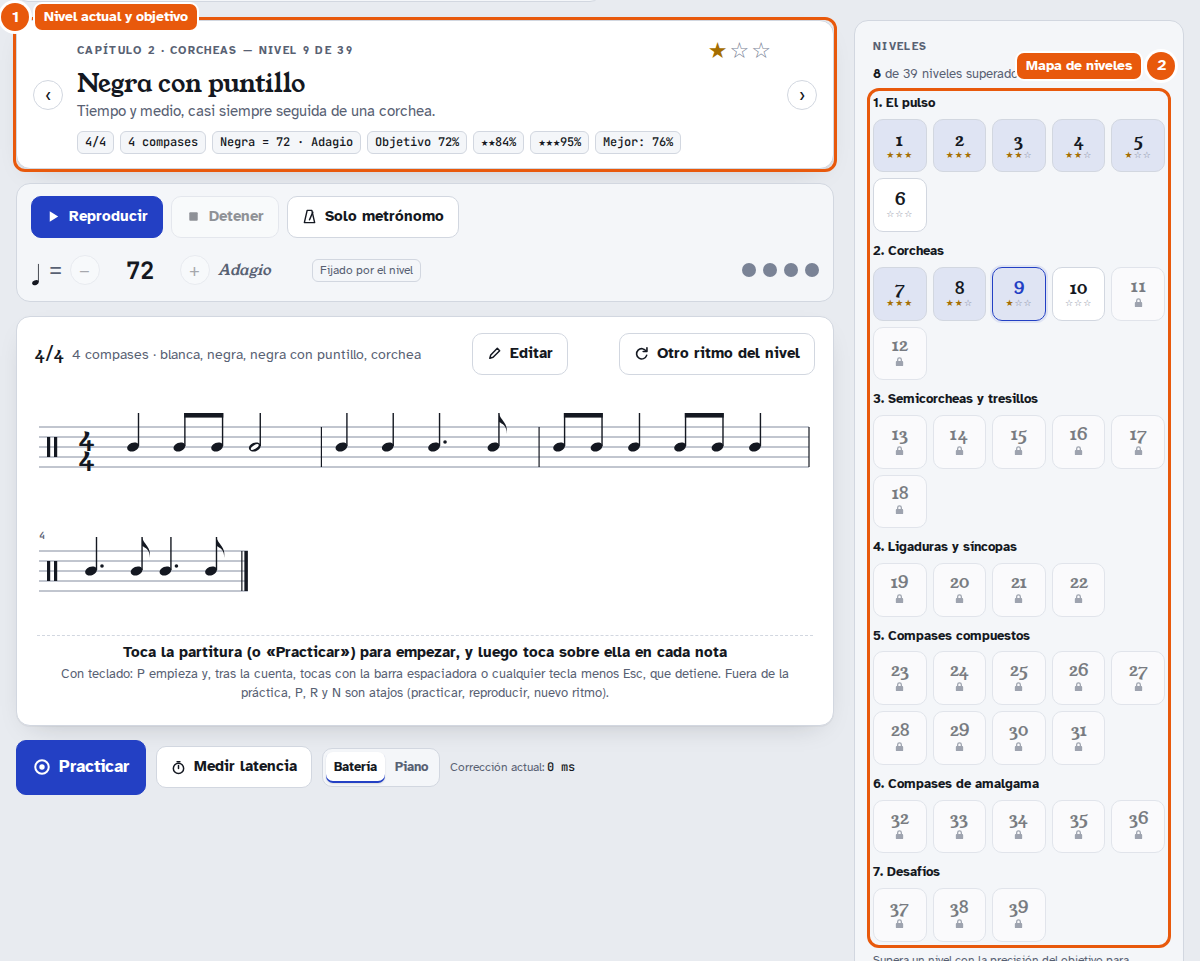
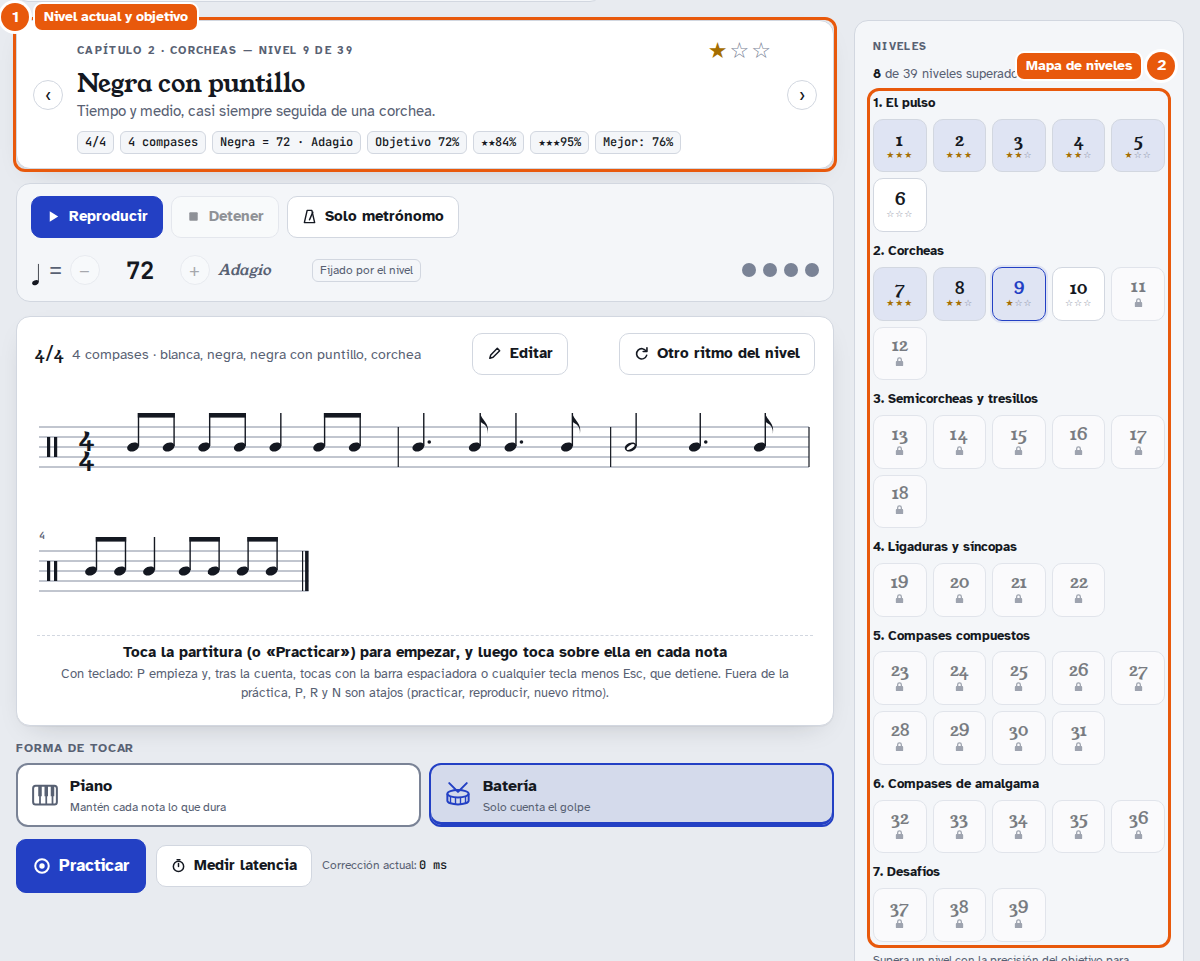
Forma de tocar destacada, modo piano por defecto y sonido de redoblante en batería
- Selector «Forma de tocar» encima de Practicar: dos botones grandes con icono
  y explicación (Piano primero). La bienvenida lo explica en un paso propio.
- Modo piano por defecto; los ajustes guardados pasan a piano una vez (sv 4).
- El toque en modo batería y el «Golpe de redoblante» del ritmo suenan como un
  redoblante (bordonera de ruido filtrado más parche).
- Pruebas: tests/modo.test.js; las suites arrancan en batería salvo que digan
  otra cosa.
- README, CLAUDE.md y capturas al día.

Claude-Session: https://claude.ai/code/session_01KR51CwVVXhtFmUshsMceNd

diff --git a/tests/modo.test.js b/tests/modo.test.js
@@ -1,0 +1,50 @@
+// Forma de tocar: modo piano por defecto (también para ajustes guardados antiguos, sv 4), selector destacado,
+// bienvenida que lo explica y sonido de redoblante en modo batería
+const { suite, MOB } = require('./lib');
+
+suite('Modo piano y batería', async ({ b, URL, ok, page, open, until }) => {
+  // primera vez, sin ajustes guardados
+  const p = await page(b, { welcome: true }); await open(p, URL);
+  ok(await p.evaluate(() => __t.set.hold === true), 'sin ajustes guardados, el modo piano viene activado');
+  const pressed = () => p.evaluate(() => [...document.querySelectorAll('#modeSeg button')].map(x => x.dataset.hold + ':' + x.getAttribute('aria-pressed')).join(' '));
+  ok(await pressed() === '1:true 0:false', 'el selector marca Piano ' + await pressed());
+  const wel = await p.textContent('#welcome');
+  ok(!(await p.isHidden('#welcome')) && /Piano/.test(wel) && /Batería/.test(wel), 'la bienvenida explica Piano y Batería');
+  ok(await p.evaluate(() => document.querySelector('.mode-lbl').textContent.trim()) === 'Forma de tocar' && await p.evaluate(() => document.querySelector('#modeSeg').getAttribute('aria-labelledby')) === 'modeLbl', 'el selector tiene título «Forma de tocar» y nombre accesible');
+  const mp = await p.evaluate(() => { const a = document.querySelector('#modeSeg').getBoundingClientRect(), c = document.querySelector('#bPractice').getBoundingClientRect(); return a.bottom <= c.top + 1; });
+  ok(mp, 'el selector va encima de «Practicar»');
+  await p.click('#modeSeg button[data-hold="0"]');
+  ok(await p.evaluate(() => __t.set.hold === false && !document.querySelector('#holdSw').checked && JSON.parse(localStorage.getItem('solfeo-ritmico-v1')).hold === false), 'elegir Batería lo guarda y sincroniza el interruptor del panel');
+  ok(await pressed() === '1:false 0:true', 'el selector marca Batería');
+
+  // migración: ajustes antiguos (sv 3) en batería pasan a piano una vez; con sv 4 se respeta la elección
+  const q = await page(b);
+  await q.addInitScript(() => { if (!sessionStorage.x) { sessionStorage.x = 1; localStorage.setItem('solfeo-ritmico-v1', JSON.stringify({ seen: true, sv: 3, hold: false })); } });
+  await open(q, URL);
+  ok(await q.evaluate(() => __t.set.hold === true && __t.set.sv === 4), 'ajustes guardados con sv 3: pasan a modo piano (sv 4)');
+  await q.click('#modeSeg button[data-hold="0"]');
+  await q.reload(); await q.waitForFunction(() => window.__t && document.readyState === 'complete');
+  ok(await q.evaluate(() => __t.set.hold === false), 'con sv 4 se respeta haber elegido Batería al recargar');
+
+  // sonido de redoblante: ruido (bordonera) más tono (parche), en el toque de batería y en el «Golpe de redoblante»
+  const snd = await q.evaluate(() => {
+    ensureAudio(); const c = __t.ctx, n = { buf: 0, osc: 0 };
+    const cb = c.createBufferSource.bind(c), co = c.createOscillator.bind(c);
+    c.createBufferSource = () => { n.buf++; return cb(); }; c.createOscillator = () => { n.osc++; return co(); };
+    __t.set.hold = false; __t.set.tapSound = true; __t.set.tapVol = 0.6;
+    tapSoundOn('test'); const tap = { ...n }; n.buf = 0; n.osc = 0;
+    __t.set.timbre = 'golpe'; noteSound(master, c.currentTime + 0.05, 0.5, 0.5); const note = { ...n };
+    c.createBufferSource = cb; c.createOscillator = co;
+    return { tap, note, opt: document.querySelector('#timbre option[value="golpe"]').textContent };
+  });
+  ok(snd.tap.buf === 1 && snd.tap.osc >= 2, 'el toque en modo batería suena a redoblante (ruido + parche) ' + JSON.stringify(snd.tap));
+  ok(snd.note.buf === 1 && snd.note.osc >= 2, '«Golpe de redoblante» en el ritmo usa el mismo sonido ' + JSON.stringify(snd.note));
+  ok(snd.opt === 'Golpe de redoblante', 'la opción se llama «Golpe de redoblante»');
+
+  // móvil: los dos botones caben uno al lado del otro y miden al menos 44 px
+  const m = await page(b, MOB); await open(m, URL);
+  const r = await m.evaluate(() => [...document.querySelectorAll('#modeSeg button')].map(x => { const k = x.getBoundingClientRect(); return { t: Math.round(k.top), h: k.height, w: k.width }; }));
+  ok(r.length === 2 && r[0].t === r[1].t && r.every(x => x.h >= 44 && x.w > 120), 'en el móvil, Piano y Batería lado a lado y de al menos 44 px ' + JSON.stringify(r));
+  ok(await m.evaluate(() => document.documentElement.scrollWidth <= innerWidth), 'sin desplazamiento horizontal');
+  ok(p.errs.length === 0 && q.errs.length === 0 && m.errs.length === 0, 'sin errores ' + p.errs.concat(q.errs, m.errs).join('|'));
+});

diff --git a/index.html b/index.html
@@ -37,6 +37,7 @@
         <h2 id="welTitle">Cómo se practica</h2>
         <ol>
           <li>Pulsa <b>Reproducir</b> <span class="kb">(<kbd>R</kbd>)</span> para escuchar el ritmo con el metrónomo.</li>
+          <li>Elige cómo tocar: en <b>Piano</b> (viene así) mantienes pulsada cada nota lo que dura y también se mide cuándo la sueltas; en <b>Batería</b> solo cuenta el golpe.</li>
           <li>Pulsa <b>Practicar</b> <span class="kb">(<kbd>P</kbd>)</span> o toca la partitura. Tras la cuenta previa, toca en cada nota: con el dedo o el ratón<span class="kb">, o con la barra espaciadora</span>.</li>
           <li>Al terminar verás tu precisión, bajo cada nota si llegaste antes o tarde, y un consejo según cómo tocaste.</li>
         </ol>
@@ -94,13 +95,16 @@
       </div>
 
       <div class="practice">
+        <div class="mode-pick">
+          <span class="mode-lbl" id="modeLbl">Forma de tocar</span>
+          <div class="modeseg" id="modeSeg" role="group" aria-labelledby="modeLbl">
+            <button type="button" data-hold="1"><svg viewBox="0 0 24 24" aria-hidden="true"><rect x="2.5" y="4.5" width="19" height="15" rx="2" fill="none" stroke="currentColor" stroke-width="1.6"/><path d="M8 4.5v15M13 4.5v15M18 4.5v15" stroke="currentColor" stroke-width="1.4"/><path d="M6.6 4.5h2.8v8.5H6.6zM11.6 4.5h2.8v8.5h-2.8zM16.6 4.5h2.8v8.5h-2.8z" fill="currentColor"/></svg><span><b>Piano</b><small>Mantén cada nota lo que dura</small></span></button>
+            <button type="button" data-hold="0"><svg viewBox="0 0 24 24" aria-hidden="true"><ellipse cx="12" cy="11" rx="8.5" ry="3" fill="none" stroke="currentColor" stroke-width="1.6"/><path d="M3.5 11v5.5c0 1.7 3.8 3 8.5 3s8.5-1.3 8.5-3V11" fill="none" stroke="currentColor" stroke-width="1.6"/><path d="M6 13.6v5M10 14.2v5.2M14 14.2v5.2M18 13.6v5" stroke="currentColor" stroke-width="1.1"/><path d="M5 2.5l7 7M19 2.5l-7 7" stroke="currentColor" stroke-width="1.6" stroke-linecap="round"/></svg><span><b>Batería</b><small>Solo cuenta el golpe</small></span></button>
+          </div>
+        </div>
         <div class="p-actions">
           <button class="btn primary big" id="bPractice" type="button"><svg viewBox="0 0 16 16" aria-hidden="true"><circle cx="8" cy="8" r="6" fill="none" stroke="currentColor" stroke-width="1.8"/><circle cx="8" cy="8" r="2.4" fill="currentColor"/></svg>Practicar</button>
           <button class="btn" id="bCalib" type="button"><svg viewBox="0 0 16 16" aria-hidden="true"><circle cx="8" cy="9" r="5.5" fill="none" stroke="currentColor" stroke-width="1.6"/><path d="M8 9V5.8M6.5 1.8h3" stroke="currentColor" stroke-width="1.6" stroke-linecap="round"/></svg>Medir latencia</button>
-          <div class="modeseg" id="modeSeg" role="group" aria-label="Forma de tocar">
-            <button type="button" data-hold="0" title="Solo cuenta el momento del golpe">Batería</button>
-            <button type="button" data-hold="1" title="También cuenta cuánto mantienes pulsada cada nota">Piano</button>
-          </div>
           <span class="p-offset">Corrección actual: <b id="offsetNow">0 ms</b></span>
         </div>
       </div>
@@ -274,7 +278,7 @@
         <label class="sw"><input type="checkbox" id="cursor"><span class="track"></span><span>Resaltar la nota actual</span></label>
         <label class="sw"><input type="checkbox" id="loop"><span class="track"></span><span>Repetir en bucle<small>Solo al reproducir</small></span></label>
         <div class="field"><label for="timbre">Sonido de las notas</label>
-          <select id="timbre"><option value="tono">Tono sostenido (se oye la duración)</option><option value="golpe">Golpe de percusión</option></select></div>
+          <select id="timbre"><option value="tono">Tono sostenido (se oye la duración)</option><option value="golpe">Golpe de redoblante</option></select></div>
         <div class="field"><span class="rlabel">Volumen del ritmo <output id="rhythmVolOut"></output></span><input type="range" id="rhythmVol" min="0" max="1" step="0.05" aria-label="Volumen del ritmo"></div>
         </div>
       </details>

diff --git a/js/audio.js b/js/audio.js
@@ -10,7 +10,7 @@ function ensureAudio(){
     const AC=window.AudioContext||window.webkitAudioContext;
     try{ ctx=new AC({latencyHint:'interactive'}); }catch(e){ ctx=null; appWarn('audio'); return false; }
     master=ctx.createGain(); master.gain.value=0.9; master.connect(ctx.destination);
-    noiseBuf=ctx.createBuffer(1, Math.floor(ctx.sampleRate*0.1), ctx.sampleRate);
+    noiseBuf=ctx.createBuffer(1, Math.floor(ctx.sampleRate*0.3), ctx.sampleRate);
     const d=noiseBuf.getChannelData(0); for(let i=0;i<d.length;i++) d[i]=Math.random()*2-1;
     // una llamada, Siri o bloquear la pantalla detienen el reloj del audio: la práctica o la medición en curso ya no valen
     ctx.addEventListener('statechange',()=>{ if(ctx.state!=='running') stopTimed(); });
@@ -46,6 +46,21 @@ function click(bus,t,level,vol){
   g.gain.setValueAtTime(0.0001,t); g.gain.exponentialRampToValueAtTime(v*0.9,t+0.002); g.gain.exponentialRampToValueAtTime(0.0001,t+0.055);
   o.connect(g); g.connect(bus); o.start(t); o.stop(t+0.07); track(o);
 }
+// Golpe de redoblante: la bordonera (ruido con paso alto y un poco de cuerpo en banda) más el parche (tono corto que baja).
+// v ≈ volumen (0–1); devuelve las fuentes para poder pararlas
+function snare(dest,t,v){
+  const n=ctx.createBufferSource(); n.buffer=noiseBuf;
+  const hp=ctx.createBiquadFilter(); hp.type='highpass'; hp.frequency.value=1200;
+  const bp=ctx.createBiquadFilter(); bp.type='bandpass'; bp.frequency.value=3200; bp.Q.value=0.7;
+  const gn=ctx.createGain(); gn.gain.setValueAtTime(0.0001,t); gn.gain.exponentialRampToValueAtTime(0.9*v,t+0.002); gn.gain.exponentialRampToValueAtTime(0.0001,t+0.19);
+  n.connect(hp); hp.connect(bp); bp.connect(gn); gn.connect(dest); n.start(t); n.stop(t+0.22);
+  const o=ctx.createOscillator(), o2=ctx.createOscillator(), gb=ctx.createGain();
+  o.type='triangle'; o.frequency.setValueAtTime(230,t); o.frequency.exponentialRampToValueAtTime(165,t+0.06);
+  o2.type='sine'; o2.frequency.setValueAtTime(340,t); o2.frequency.exponentialRampToValueAtTime(280,t+0.05);
+  gb.gain.setValueAtTime(0.0001,t); gb.gain.exponentialRampToValueAtTime(0.75*v,t+0.002); gb.gain.exponentialRampToValueAtTime(0.0001,t+0.1);
+  o.connect(gb); o2.connect(gb); gb.connect(dest); o.start(t); o2.start(t); o.stop(t+0.12); o2.stop(t+0.12);
+  return [n,o,o2];
+}
 function noteSound(bus,t,dsec,vol){
   const v=vol==null?set.rhythmVol:vol; if(v<=0.001 || tooLate(t)) return;
   if(set.timbre==='tono'){
@@ -57,13 +72,7 @@ function noteSound(bus,t,dsec,vol){
     g.gain.linearRampToValueAtTime(0.32*v,mid); g.gain.setValueAtTime(0.32*v,end); g.gain.linearRampToValueAtTime(0,end+0.035);
     o.start(t); o2.start(t); o.stop(end+0.05); o2.stop(end+0.05); track(o,o2);
   } else {
-    const n=ctx.createBufferSource(); n.buffer=noiseBuf;
-    const bp=ctx.createBiquadFilter(); bp.type='bandpass'; bp.frequency.value=2300; bp.Q.value=2.5;
-    const g=ctx.createGain(); g.gain.setValueAtTime(1.3*v,t); g.gain.exponentialRampToValueAtTime(0.0001,t+0.06);
-    n.connect(bp); bp.connect(g); g.connect(bus); n.start(t); n.stop(t+0.08);
-    const o=ctx.createOscillator(), g2=ctx.createGain(); o.frequency.setValueAtTime(620,t); o.frequency.exponentialRampToValueAtTime(300,t+0.08);
-    g2.gain.setValueAtTime(0.6*v,t); g2.gain.exponentialRampToValueAtTime(0.0001,t+0.1);
-    o.connect(g2); g2.connect(bus); o.start(t); o.stop(t+0.12); track(n,o);
+    track(...snare(bus,t,v));
   }
 }
 
@@ -84,9 +93,7 @@ function tapSoundOn(src){
     o.start(t); o2.start(t);
     tapVoices.set(src,{g,oscs:[o,o2]});
   } else {
-    o.type='sine'; o.frequency.setValueAtTime(1180,t); o.frequency.exponentialRampToValueAtTime(700,t+0.05);
-    g.gain.setValueAtTime(0.0001,t); g.gain.exponentialRampToValueAtTime(0.8*v,t+0.002); g.gain.exponentialRampToValueAtTime(0.0001,t+0.09);
-    o.start(t); o.stop(t+0.1);
+    o.disconnect(); snare(g,t,v); g.gain.value=1;   // golpe de redoblante
   }
 }
 function tapSoundOff(src){

diff --git a/styles.css b/styles.css
@@ -120,9 +120,19 @@ kbd{font-family:var(--mono);font-size:11px;border:1px solid var(--line);border-b
 .dtrack{fill:var(--line)}
 .dbar{fill:var(--muted)} .dbar.d-exact{fill:var(--good)} .dbar.d-ok{fill:none;stroke:var(--ok);stroke-width:1.6} .dbar.d-short,.dbar.d-long{fill:var(--near)}
 .dtick{stroke:var(--ink);stroke-width:1.2}
-.modeseg{display:flex;background:var(--panel);border:1px solid var(--line);border-radius:10px;padding:3px;gap:2px}
-.modeseg button{flex:1;border:0;background:transparent;padding:6px 8px;border-radius:7px;font-size:13px;font-weight:700;color:var(--muted);cursor:pointer}
-.modeseg button[aria-pressed="true"]{background:var(--paper);color:var(--ink);box-shadow:0 1px 2px rgba(20,24,33,.12),inset 0 -2px 0 var(--accent)}
+/* forma de tocar (Piano / Batería): bloque destacado encima de «Practicar» */
+.mode-pick{display:flex;flex-direction:column;gap:6px;margin-bottom:12px}
+.mode-lbl{font-size:12px;font-weight:700;letter-spacing:.08em;text-transform:uppercase;color:var(--muted)}
+.modeseg{display:grid;grid-template-columns:1fr 1fr;gap:8px}
+.modeseg button{display:flex;align-items:center;gap:10px;text-align:left;border:2px solid var(--ui);background:var(--paper);color:var(--ink);padding:10px 12px;border-radius:12px;cursor:pointer;font:inherit;min-height:56px}
+.modeseg button svg{width:30px;height:30px;flex:none;color:var(--muted)}
+.modeseg button span{display:flex;flex-direction:column;gap:1px;min-width:0}
+.modeseg button b{font-size:16px}
+.modeseg button small{font-size:12px;color:var(--muted);line-height:1.25}
+.modeseg button:hover{border-color:var(--accent)}
+.modeseg button[aria-pressed="true"]{border-color:var(--accent);background:var(--accent-soft);box-shadow:inset 0 -3px 0 var(--accent)}
+.modeseg button[aria-pressed="true"] svg{color:var(--accent)}
+@media (max-width:380px){ .modeseg button{flex-direction:column;align-items:flex-start;gap:4px} }
 
 /* zona de toque = la partitura */
 .pad{position:relative;margin:0 -10px;padding:4px 10px 10px;border:2px solid transparent;border-radius:12px;outline:none;transition:border-color .15s,background .15s}
@@ -425,7 +435,7 @@ body.fab-on{padding-bottom:140px}
   .sw{align-content:center}
   input[type=range]{height:44px;margin:0}
   .fold summary{padding:0}
-  .seg button,.modeseg button{padding-block:0}
+  .seg button{padding-block:0}
   /* con resultados: el bloque Practicar / Medir latencia sale (los resultados quedan pegados a la partitura) y, con el botón de tres partes, no se repiten sus acciones */
   body.res-on .practice{display:none}
   body.post-on #rAgain,body.post-on #rNew,body.post-on #rcNext{display:none}

diff --git a/js/datos.js b/js/datos.js
@@ -122,7 +122,7 @@ function restList(C){ return Array.isArray(C.rests) ? C.rests : (C.rests ? C.fig
 
 const DEFAULTS = {sig:'4/4', bars:4, figs:['h','q','e'], rests:['h','q','e'], sound:false, cursor:true, loop:false,
   timbre:'tono', rhythmVol:0.6, bpm:80, metro:true, accent:true, sub:'0', countIn:'1', metroVol:0.7, offset:0,
-  autosave:true, view:'libre', level:0, levelId:'', penalize:true, hold:false, sync:false, ties:false, tapSound:true, tapVol:0.6, grp:{}, fab:true, vibrate:true, seen:false, folds:{}, countSub:true, keys:true, sv:3,
+  autosave:true, view:'libre', level:0, levelId:'', penalize:true, hold:true, sync:false, ties:false, tapSound:true, tapVol:0.6, grp:{}, fab:true, vibrate:true, seen:false, folds:{}, countSub:true, keys:true, sv:4,
   // bucle de tempo (subir al superar rampPct %, de rampStep en rampStep hasta rampMax) y metrónomo que calla («a-b»: suena a compases, calla b)
   ramp:false, rampPct:90, rampStep:5, rampMax:140, rampDown:false, gap:'0'};
 // Patrones del metrónomo intermitente (ver gapMuted en transporte.js)
@@ -170,6 +170,8 @@ function load(){
     if(s.sv<2){ s.sound=false; s.tapSound=true; s.sv=2; }
     // sv 3: en la cuenta previa de compases compuestos y de amalgama suenan pulso y subdivisión
     if(s.sv<3){ s.countSub=true; s.sv=3; }
+    // sv 4: el modo piano (se mide también cuándo se suelta cada nota) pasa a ser el de por defecto
+    if(s.sv<4){ s.hold=true; s.sv=4; }
     return s; } }catch(e){}
   return freshSettings();
 }

diff --git a/tests/lib.js b/tests/lib.js
@@ -79,7 +79,7 @@ async function page(b, opts = {}) {
   const ctx = await b.newContext({ viewport: { width: 1200, height: 900 }, deviceScaleFactor: 1, locale: 'es-ES', ...o });
   // violaciones de CSP (el listener se instala antes que los scripts de la página)
   await ctx.addInitScript(() => { window.__csp = []; document.addEventListener('securitypolicyviolation', e => window.__csp.push(e.violatedDirective + ' ' + (e.blockedURI || '') + ' ' + (e.sourceFile || '') + ':' + e.lineNumber)); });
-  if (!welcome) await ctx.addInitScript(() => { if (!localStorage.getItem('solfeo-ritmico-v1')) localStorage.setItem('solfeo-ritmico-v1', JSON.stringify({ seen: true, sv: 2 })); });
+  if (!welcome) await ctx.addInitScript(() => { if (!localStorage.getItem('solfeo-ritmico-v1')) localStorage.setItem('solfeo-ritmico-v1', JSON.stringify({ seen: true, sv: 4, hold: false })); });   // las suites tocan en modo batería salvo que digan otra cosa
   const p = await ctx.newPage();
   p.errs = [];
   p.ext = [];   // peticiones fuera de 127.0.0.1 (no debería haber ninguna)

diff --git a/CLAUDE.md b/CLAUDE.md
@@ -16,7 +16,7 @@ Nació como un Artifact publicado en claude.ai. Allí el progreso se guardaba en
 | `generacion.js` | `genMeasure` llena cada compás con celdas elegidas al azar (con peso) que cumplan las figuras seleccionadas, respetando el pulso (ver «Escritura según el pulso»); un compás sin notas solo se acepta si es el silencio de compás entero (`mr`, peso bajo), y `generate()` exige alguna nota en el ritmo. En la campaña, `generate()` garantiza que salgan todas las figuras y silencios del nivel (`figsUsed`): cambia un compás al azar y se queda el cambio si no pierde ninguno, hasta cubrirlos todos (máx. 3000 intentos). `generate()` arma `score` y, si `ties` está activo, `addTies` liga notas entre celdas y compases. También `measureExcerpt` / `backToFull` (compás más flojo). (`cfg()`, que devuelve la configuración activa —práctica libre = `set`, campaña = nivel actual—, está en `campana.js`.) |
 | `notacion.js` | Partitura en SVG a mano: pentagrama de 5 líneas, clave de percusión, cabezas, plicas, corchetes, barras (incluye barras secundarias y medias barras de semicorchea), tresillos y dosillos (número sobre la barra; el dosillo se dibuja como dos corcheas), silencios, puntillos y ligaduras (`tieSVG`; se parten al cambiar de sistema). Barras en `measureSVG`: un grupo por celda (pulso); dentro del grupo la barra pasa por encima de los silencios cortos interiores (los del principio y del final quedan fuera) y la barra secundaria se corta en el silencio (la semicorchea que queda sola lleva media barra hacia dentro). En 2/2 y 3/2 dos celdas de dos corcheas del mismo pulso de blanca van bajo una sola barra. Solo el silencio que ocupa el compás entero va centrado; una nota sola va a la izquierda. Reparte los compases en sistemas según el ancho y dibuja bajo cada nota los marcadores de desvío y las barras de duración (`renderScore`, `measureSVG`). |
 | `panel.js` | Controles de compás, figuras, silencios, tempo (con término italiano) y luces de pulso (`renderSigs`, `renderFigs`, `renderSummary`, `setBpm`, `syncControls`…). Tempo: `unitName`/`tempoLabel` (figura a la que van los ppm), `pulseTicks`/`pulseBpm`, `tempoMark(b, sig)` y `showTempoMark`. |
-| `audio.js` | Web Audio: `ensureAudio()`, `stopTimed()` (y los eventos `visibilitychange` / `pageshow`), `heardAt(ts)` (ver «Latencia y hora del toque»), `click()` del metrónomo (acento / pulso / débil / subdivisión), `noteSound()` (tono sostenido o golpe de percusión), `track` / `stopSources` (fuentes pendientes en `liveSrc`) y `tapSoundOn/Off` (sonido opcional del toque del usuario). `click` y `noteSound` no programan nada que ya haya pasado (`tooLate`). |
+| `audio.js` | Web Audio: `ensureAudio()`, `stopTimed()` (y los eventos `visibilitychange` / `pageshow`), `heardAt(ts)` (ver «Latencia y hora del toque»), `click()` del metrónomo (acento / pulso / débil / subdivisión), `noteSound()` (tono sostenido o golpe de redoblante), `snare(dest,t,v)` (golpe de redoblante: ruido con paso alto y banda —la bordonera— más un tono corto que baja de 230 a 165 Hz —el parche—), `track` / `stopSources` (fuentes pendientes en `liveSrc`) y `tapSoundOn/Off` (sonido opcional del toque del usuario). `click` y `noteSound` no programan nada que ya haya pasado (`tooLate`). |
 | `transporte.js` | Planificador con margen (`schedTick` cada 40 ms): programa compás a compás lo que empieza antes de `ahora + AHEAD` (1 s; en «Solo metrónomo», 0,3 s), contando los compases desde el primero de la cuenta previa (`barAt`, `schedBar`, `S.nextG`/`S.endG`; en bucle, sin fin). Tras una pausa del hilo principal salta lo atrasado en vez de hacerlo sonar de golpe. Cuenta previa, bucle y cursor sincronizado con `requestAnimationFrame` (con `heardAt()`). Por sesión, `S.bus` → `S.mBus` (metrónomo) y `S.rBus` (ritmo) con su volumen, que `liveVol()` cambia mientras suena (las envolventes van a volumen 1). Detener desvanece y desconecta `S.bus` y para las fuentes pendientes (`stopSources`). Metrónomo que calla: `gapMuted(k)` y `setMuted` (ver «Metrónomo que calla»). Estado `S`; `start`, `stop`, `finish(manual)`, `followScore`, `updateTransport`. |
 | `practica.js` | `tap(src, ts)` / `release(src, ts)` (con `e.timeStamp`): cada toque tras la cuenta se guarda en `S.taps` (`{t, rel}`); en directo se asigna, solo para los colores, a la nota pendiente de ventana que mejor encaja con el desvío reciente. Al terminar, `alignTaps` rehace la asignación (ver «Evaluación de golpes») y `showResults` puntúa y muestra los resultados. |
 | `estudio.js` | Análisis fino del resultado (`notePos`, `analyzeTaps`, `analysisTip`, `resultAnalysis`, `driftChart`, que pinta `#rAnal`) y bucle de tempo (`rampOn`, `rampAfter`, `rampStop`, `rampCancel`, `syncRamp`, `rampT`; ver «Análisis del resultado» y «Bucle de tempo»). |
@@ -51,7 +51,7 @@ Nació como un Artifact publicado en claude.ai. Allí el progreso se guardaba en
 **Móvil** (revisión de la experiencia táctil; pruebas en `tests/movil*.test.js`): (1) **Objetivos de 44 px** en `@media (any-pointer: coarse)`: pestañas, `.btn`, `#bpm`, Batería/Piano, filtros, `<summary>`, interruptores (`.sw`), `select`, campos, deslizadores (`height:44px`), `.fig`, `.sig` y las zonas `.evhit` de las figuras de Mis ejercicios (hasta 44 px sin invadir a las vecinas: `measureSVG` usa `touchMQ`). (2) **Sin teclas en el móvil:** `kbOn()` (hay puntero fino) decide si `padIdle`, `say()` y los textos del bucle de tempo hablan de teclado o de «Esc»; el texto de la bienvenida lleva lo del teclado en `.kb`. (3) **Avisos flotantes** (`.toast`, fijos abajo por encima de lo fijo con `max(var(--pinB),12px)`): `#ownMsg` (Mis ejercicios; `ownMsg()` lo quita solo a los 4,5 s + 40 ms por carácter, 7 s los errores, o al tocarlo; vive fuera de `#secOwn`; `role=status` y `aria-live=polite`) y `#newToast` «Ritmo nuevo · Ver ↑» (`rhythmChanged` → `rhythmToast`: solo si la partitura no se ve; lleva a `.score-card`; se quita solo a los 6 s, al tocarlo o al volver a verse la partitura). (4) **Mi progreso a ≤ 520 px:** cada fila del historial es una tarjeta (`tr` en rejilla de 6 columnas; las celdas llevan `data-l` y `::before` pone la etiqueta; los `role` de tabla se ponen en el HTML para que los lectores sigan viéndola como tabla); la gráfica tiene una sola `.ch-hit` (`touch-action:pan-y`) y el tooltip con dedo se fija hasta tocar fuera (`chartHide`, `pointerdown` en `document`); con ratón sigue al puntero. (5) **Ficha del nivel** (≤ 560 px): `.lv-body{display:contents}` y una rejilla de áreas («Nivel n de N» + estrellas / ‹ título › / descripción / chips; el capítulo, `.lv-ch`, se oculta). (6) **Botón «Practicar» único:** en Mis ejercicios, con la paleta a la vista (`body.dock-on:not(.dock-away)`), `#bPractice` se oculta (queda el de la paleta). (7) `#calib` y los resultados se llevan a la vista con `revealBlock`.
 **Accesibilidad (WCAG 2.2 AA):** `say(texto)` escribe en `#srLive` (`aria-live`, oculto con `.sr-only`) el inicio de la práctica y de la medición, el resultado, la latencia sugerida, el cambio de nivel y las confirmaciones. Al terminar, el foco va a `#results` o `#calib` (`tabindex=-1`, sin aro). Las pestañas siguen el patrón ARIA (`tabindex` itinerante, `aria-controls`, `role=tabpanel`) y están dentro de un `<main id="main">` real (los paneles son `div role=tabpanel` dentro; el panel de opciones es `section`, no `aside`); el primer elemento es el enlace «Saltar a la partitura» (`.skip`, visible al enfocarlo). Los títulos de resultados y medición son `h2`; los SVG decorativos de botones llevan `aria-hidden`. **Foco:** `keepFocus(caja, fn)` (en `datos.js`) recuerda qué control de la caja tenía el foco (por `data-sig/g/lv/id/k/r` o `id`), repinta con `fn()` y enfoca el equivalente; lo usan los repintados de compás, agrupación, figuras y silencios del panel, mapa de niveles, paleta y lista de ejercicios; cuando un botón se apaga al actuar (Deshacer, «Nivel anterior») el foco pasa a otro, y una red de seguridad en `eventos.js` devuelve el foco a la partitura si tras un clic de teclado cae en `<body>`. **Foco no tapado (2.4.11):** `updateFab()` pone `--pinB` (alto que tapa el botón flotante, `#postFab` o la paleta) y `html{scroll-padding-bottom}` lo usa; con el teclado (`kbdNav`, activado por Tab) `revealFocus` desplaza lo justo el control enfocado que quede debajo. **Confirmaciones:** `askConfirm(caja, pregunta, [id,texto], [id,texto])` / `endConfirm` (en `datos.js`) hacen de la caja un `role=group` cuyo nombre es la pregunta, describen «Cancelar» con ella y enfocan «Cancelar»; tras borrar un ejercicio el foco va a la lista. **Partitura:** `#pad` es `role=group` con `aria-describedby="padMain padSub"` (así el estado de la práctica llega al lector; antes era un `role=button` que lo ocultaba); `#score` no lleva `aria-label`; cada `svg.sys` lleva `aria-label` generado por `systemLabel` / `measureText` (`notacion.js`): «Ritmo en 4/4. Compás 1: negra, dos corcheas, negra, negra.» (figuras iguales seguidas de un mismo pulso se agrupan, tresillo y dosillo cuentan como una figura, silencios y ligaduras se dicen). Estrellas: `starStr` pinta ★ (ganada) y ☆ (vacía); `#lvStars` y `#rcStars` son `role=img` con «n de 3 estrellas»; los niveles del mapa son botones con nombre completo («Nivel 3: título, 2 de 3 estrellas, superado» / «…, bloqueado»), los bloqueados `aria-disabled` y enfocables (al activarlos solo se anuncia que están bloqueados). **«Reiniciar» (`#fabRestart`):** con puntero, mantener 500 ms; con teclado o lector (`click` con `detail===0`) Intro o Espacio reinician al instante (`restartNow`) y no cuentan como toque; `#restartHelp` lo explica (`aria-describedby`). `#tapFab` no lleva `aria-label` propio (su nombre es su texto visible). **Atajos de una tecla (2.1.4):** el ajuste «Atajos de teclado de una tecla» (`set.keys`, activado por defecto; `body.no-keys` oculta `.keys`/`.kb`) los apaga todos (P, R, N y las teclas de `ownKeys`); además no actúan mientras el foco, llegado con Tab, esté en un botón, pestaña, enlace o resumen (`shortcutOK` / `onCtrl` en `eventos.js`). Espacio, Intro y Esc no se tocan. **Contraste:** `--ui` (bordes de campos, pista del interruptor apagado, luces apagadas, estrellas sin ganar) ≥ 3:1 sobre `--paper` y `--panel`; `--staff` ≥ 3:1; `--near`, `--good` y `--star` oscurecidos en claro para el texto y las estrellas (los niveles de `--line` quedan para separadores decorativos). **Sin depender del color:** en la partitura exacto = círculo lleno, bien = anillo, cerca = rombo, sin tocar = aspa, de más = triángulo (`.sw-dot` de los contadores con las mismas formas, `aria-hidden`); las pestañas y segmentos activos llevan además un subrayado interior. `@media (forced-colors: active)` da borde a la pista del interruptor, `Highlight` al marcado y subrayado a lo activo. **Movimiento:** `smooth()` (en `datos.js`) da `'auto'` con `prefers-reduced-motion` y se usa en todos los `scrollTo` / `scrollIntoView` con `behavior`; el CSS apaga también la animación de «Reiniciar». **Deslizadores:** `aria-valuetext` con unidad («60%», «+15 ms», «80 ppm»), puesto por `updOutputs` y `setBpm` / `showTempo`. Al pedir confirmación (borrar historial, restablecer, borrar ejercicio) el foco va a «Cancelar» y luego vuelve al botón original. `tests/a11y.test.js` cubre todo esto, incluidos los ratios de contraste calculados desde `styles.css` en claro y oscuro (si se cambia una variable de color, repasar `PAIRS`).
 
-**Avisos y primera vez:** `appWarn('store'|'audio')` muestra `#appWarn` si `localStorage.setItem` falla (en `save()` y `commitProg()`) o si no se puede crear el `AudioContext` (`ensureAudio()` devuelve `false` y `start`/`startCalib` no siguen). La tarjeta `#welcome` (pasos para practicar, el consejo del resultado, presentación de las pestañas Campaña —39 niveles—, Mis ejercicios y Mi progreso, y las opciones «Subir el tempo en bucle» y «Compases en silencio») sale si `!set.seen` y no hay sesiones; se cierra con «Entendido», «Medir latencia ahora» o al terminar la primera práctica (`dismissWelcome`).
+**Avisos y primera vez:** `appWarn('store'|'audio')` muestra `#appWarn` si `localStorage.setItem` falla (en `save()` y `commitProg()`) o si no se puede crear el `AudioContext` (`ensureAudio()` devuelve `false` y `start`/`startCalib` no siguen). La tarjeta `#welcome` (pasos para practicar, la forma de tocar (Piano, por defecto, o Batería), el consejo del resultado, presentación de las pestañas Campaña —39 niveles—, Mis ejercicios y Mi progreso, y las opciones «Subir el tempo en bucle» y «Compases en silencio») sale si `!set.seen` y no hay sesiones; se cierra con «Entendido», «Medir latencia ahora» o al terminar la primera práctica (`dismissWelcome`).
 
 **Panel:** Reproducción, Metrónomo y Práctica son `<details class="fold" data-fold="…">`. Abiertos por defecto en pantallas de más de 920 px y plegados en las estrechas; `set.folds` solo guarda lo que el usuario cambia respecto a ese valor por defecto. «Restablecer ajustes» vuelve a `freshSettings()` conservando `offset`, `view`, `level`, `levelId` y `seen`. En pantallas táctiles, `.step` mide 44 px y `set.vibrate` (si existe `navigator.vibrate`) vibra 12 ms en cada toque de puntero durante la práctica o la medición. Sin puntero fino se ocultan los atajos de teclado (`.keys`, `.kb`). En la campaña, `#tLock` («Fijado por el nivel») acompaña al tempo deshabilitado.
 
@@ -78,14 +78,15 @@ Nació como un Artifact publicado en claude.ai. Allí el progreso se guardaba en
 - **Tempo y su término:** los ppm van siempre a la unidad del metrónomo (`sig.click`: negra; blanca en 2/2 y 3/2; negra con puntillo en 6/8, 9/8 y 12/8; corchea en 3/8 y amalgama); el control lo dice con la figura `#tGlyph` (con `title`) y la etiqueta accesible de `#bpm`, y la ficha del nivel con «Negra con puntillo = 50 · Largo». El término italiano (`tempoMark(b, sig)`) sale del pulso sentido (`pulseBpm`): en simple, la unidad del metrónomo; en compuesto (también 3/8), la negra con puntillo; en amalgama, la duración media de sus grupos (7/8 a corchea = 150 → unos 64 pulsos → Larghetto). Cuando el pulso no es el clic, `#tMark` lo explica en su `title`. Silabeo de los niveles: «1-y» en corcheas y «1-i-y-a» en semicorcheas (la «y» siempre en la mitad del tiempo); «compás partido» para 2/2 y «amalgama» (nunca «irregular»).
 - **Tempo máximo según el compás** (`bpmMax`): el equivalente a negra = 240 (6/8, 9/8, 12/8: 160; 2/2 y 3/2: 120), para que las semicorcheas no queden a menos de 62 ms. `setBpm` y `curBpm` lo aplican (también a ejercicios propios guardados con más) y `tempoLimits()` pone el `max` de los controles.
 - **Golpes de más:** restan 40 puntos cada uno si `set.penalize` está activo (activado por defecto); si no, solo se cuentan. Su posición se guarda en `extraTks` (ticks desde el inicio, con la misma corrección de latencia que las notas) y en los resultados se dibuja como un triángulo gris (`.mkextra`) en la fila de los marcadores, interpolado dentro de la figura donde cayó.
-- **Modo piano (`set.hold`):** además del ataque se evalúa cuándo se suelta respecto al final de la figura. Justa ±max(70 ms, 15 % de la duración), aceptable ±max(140 ms, 30 %), si no «antes» o «tarde». Puntos: 100 / 70 / 30. Cada nota vale 60 % ataque + 40 % duración.
+- **Forma de tocar:** `.mode-pick` encima de «Practicar», con el título «Forma de tocar» y dos botones grandes con icono y explicación (`#modeSeg`, `data-hold`: Piano primero, luego Batería; `setHold` / `syncHold` lo sincronizan con `#holdSw` del panel). La bienvenida lo explica en un paso propio. `tests/modo.test.js` cubre el valor por defecto, la migración, el selector y el sonido.
+- **Modo piano (`set.hold`, activado por defecto desde `sv` 4):** además del ataque se evalúa cuándo se suelta respecto al final de la figura. Justa ±max(70 ms, 15 % de la duración), aceptable ±max(140 ms, 30 %), si no «antes» o «tarde». Puntos: 100 / 70 / 30. Cada nota vale 60 % ataque + 40 % duración.
 - **Latencia y hora del toque:** la hora esperada de cada nota (`n.t`) es la hora programada en el reloj del audio más la corrección del usuario (`set.offset`, en ms, positiva si el usuario llega tarde). La latencia de salida no se fija al empezar (al crear el `AudioContext`, `outputLatency` aún vale 0): `heardAt(ts)` convierte la hora del evento (`e.timeStamp`, no la del manejador, que en un móvil lento llega decenas de ms después) a «lo que sonaba entonces» con `ctx.getOutputTimestamp()` (ya descuenta la latencia de salida y no va a saltos de 10 ms como `currentTime`); si no da datos, `currentTime − outputLatency` (o `baseLatency`) del momento. La práctica, la medición de latencia y el cursor usan la misma función, así que la corrección medida no se suma dos veces.
 - **Cuenta previa al practicar:** al menos un compás aunque se elija «Sin cuenta» (que solo vale para «Reproducir»; `#countHint` lo explica).
 - **Subdivisión «Tresillos»:** solo en compases simples. En compuestos y amalgama la opción está deshabilitada y, si ya estaba elegida, suenan las corcheas (`subTicks`; `#subHint` lo explica; `syncSub` desde `renderLights` y `syncControls`).
 - **Sonido del ritmo:** «Reproducir» siempre hace sonar el ritmo (`schedulePass`: `S.mode==='play' || set.sound`); la casilla «Escuchar el ritmo al practicar» (`set.sound`, apagada por defecto) solo afecta a la práctica.
 - **Audio en iOS:** `ensureAudio()` pone `navigator.audioSession.type='playback'` (Safari 17+) antes de crear el contexto, para que suene con el interruptor de silencio activado, y reanuda el contexto siempre que no esté en `running` (iOS lo deja en `interrupted` tras una llamada, Siri o el bloqueo). Si el contexto deja de estar en marcha o la página se oculta (`visibilitychange`), `stopTimed()` corta la práctica o la medición en curso, sin resultados; al volver (`visibilitychange`, `pageshow`) se reanuda el audio. «Reproducir» y «Solo metrónomo» no se cortan al ocultar la página.
-- **Toque audible (`set.tapSound`, activado por defecto, `set.tapVol`):** en modo piano suena un tono mientras se mantiene; en batería, un golpe corto. No suena durante la medición de latencia.
-- **Migración de ajustes (`set.sv`):** `load()` aplica cambios de valores por defecto a ajustes guardados antiguos una sola vez. `sv` 2: `sound=false`, `tapSound=true`. `sv` 3: `countSub=true`.
+- **Toque audible (`set.tapSound`, activado por defecto, `set.tapVol`):** en modo piano suena un tono mientras se mantiene; en batería, un golpe de redoblante (`snare`, el mismo del «Golpe de redoblante» del ritmo). No suena durante la medición de latencia.
+- **Migración de ajustes (`set.sv`):** `load()` aplica cambios de valores por defecto a ajustes guardados antiguos una sola vez. `sv` 2: `sound=false`, `tapSound=true`. `sv` 3: `countSub=true`. `sv` 4: `hold=true` (modo piano por defecto). Las pruebas arrancan con `{seen:true, sv:4, hold:false}` (modo batería) salvo que la suite diga otra cosa.
 - **Campaña:** cada nivel tiene un `id` fijo (`L1`…); `prog.levels` y `set.levelId` usan ese id, así que se pueden insertar niveles en cualquier posición con un id nuevo. El orden de la campaña es el de `LEVELS` (no el de los id, del L30 en adelante son niveles añadidos después): El pulso → Corcheas (con 2/2 y 3/2) → Semicorcheas y tresillos → Ligaduras y síncopas (ligadura antes que síncopa) → Compases compuestos → Compases de amalgama → Desafíos. Un nivel ya superado o intentado sigue abierto aunque se inserte o se mueva antes uno sin superar (`unlocked`). Fuera de los desafíos, la figura más rápida no pasa de 4,5 golpes/s ni sube más de 1 golpe/s sobre lo ya visto, y ninguna descripción nombra un término italiano que no sea el de su tempo (`tests/campana.test.js`). 1 estrella = objetivo del nivel (70–80 %), 2 = objetivo + 12 (máx. 90 %), 3 = 95 %. Un nivel se desbloquea al conseguir al menos una estrella en el anterior. El tempo lo fija el nivel. En `figs` se declaran también las figuras de celda (`'t'` tresillo, `'lb'` ritmo lombardo, `'du'` dosillo, este solo en compases compuestos) y en `rests` `'w'` da el silencio de compás entero en cualquier compás; `generate()` exige que salgan todas. Con `need` el nivel exige además celdas concretas que enseña, marcadas con `trait` en las plantillas (`'sinc'` corchea-negra-corchea, `'qhq'` negra-blanca-negra, `'qss'` negra y dos semicorcheas en compuesto): `figsUsed` las cuenta como `'~'+trait` y `generate()` las cubre igual que las figuras (L21, L32 y L36).
 - **Datos no fiables (validar al leer, escapar al pintar):** todo lo que viene de `localStorage`, del `db` de claude.ai, de un archivo importado o de un enlace `#ej=` se trata como entrada del atacante (en `github.io` todos los proyectos del mismo usuario comparten `localStorage`). Primera barrera, al leer: `cleanSettings` (en `load()`), `cleanProg`/`cleanSession`/`cleanLevels` (`loadProgLocal` y `mergeProg`) y `cleanEx` (ejercicios) copian solo campos conocidos, con su tipo y rango (`numIn`, `oneOf`, `strIn`), claves de listas cerradas y compás solo si `has(SIGS,sig)` (**nunca `SIGS[x]` / `ODD_GROUPS[x]` con una clave que venga de fuera**: `constructor` y `__proto__` existen); lo que no sirve se descarta o vuelve al valor por defecto sin romper el arranque. Segunda barrera, al pintar: todo dato interpolado en `innerHTML` lleva `esc()` (o va con `textContent`), y los anchos dinámicos se asignan por `el.style`, no con `style=""`. Límites: ejercicios guardados `OWN_MAX` = 200 (`ownAdd` devuelve `null` si está llena y avisa; al cargar y al importar también), sesiones `MAX_SESS` = 400, 500 por archivo importado. Un enlace `#ej=` sigue guardando el ejercicio al abrirlo, pero el aviso lo dice con claridad («recibido por enlace y guardado… puedes borrarlo») y el tope de 200 evita llenar la biblioteca; se prefirió eso a una ventana de confirmación. Cualquier error al importar (también un `TypeError`) sale como mensaje y no guarda nada.
 - **CSP (`<meta http-equiv="Content-Security-Policy">` en `index.html`):** `default-src 'none'; script-src 'self'; style-src 'self'; font-src 'self'; img-src 'self' data:; connect-src 'self'; base-uri 'none'; form-action 'none'; object-src 'none'`, más `<meta name="referrer" content="no-referrer">`. Consecuencias al programar: **sin scripts ni manejadores en línea** (todo en `js/`), **sin atributos `style=""`** ni en el HTML ni en cadenas de `innerHTML` (usar clases de `styles.css`; `el.style.x=…` por JS sí vale), sin `eval`, sin recursos externos (nada de CDN ni de fuentes remotas) y sin `fetch` a otros orígenes. Las descargas usan `blob:` por un enlace `<a download>`, que la política no bloquea. `frame-ancestors` y `report-uri` no funcionan por `<meta>`. Si se cambia la política, repasar `tests/seguridad.test.js`.

diff --git a/README.md b/README.md
@@ -11,7 +11,8 @@ Genera ritmos en partitura según el compás y las figuras que elijas, los repro
 - **Escritura según el pulso:** las figuras y los silencios se escriben sin tapar el pulso ni la mitad del compás, y las barras de las corcheas se agrupan por pulso (por blanca en 2/2 y 3/2).
 - **Síncopas y ligaduras:** dos opciones independientes. Las notas ligadas no se vuelven a tocar.
 - **Reproducir y metrónomo:** escucha el ritmo antes de tocarlo. Tempo de 30 a 240 ppm (en 6/8, 9/8 y 12/8 hasta 160, y en 2/2 y 3/2 hasta 120, lo mismo que negra = 240) con indicación italiana, acento, subdivisión, cuenta previa y marcado de tempo con toques.
-- **Práctica con evaluación:** en modo batería se mide el ataque de cada nota; en modo piano también cuánto la mantienes. Puedes oír tus propios toques, y los golpes de más se pueden penalizar o solo contar.
+- **Dos formas de tocar:** en **Piano** (la de por defecto) mantienes pulsada cada nota lo que dura y se mide tanto el ataque como cuándo la sueltas; en **Batería** solo cuenta el golpe, que suena como un redoblante. Se elige justo encima de *Practicar*.
+- **Práctica con evaluación:** puedes oír tus propios toques, y los golpes de más se pueden penalizar o solo contar.
 - **Resultados sobre la partitura:** cada nota muestra tu desvío, las notas sin tocar se marcan con una ✕ y los golpes de más con un triángulo en el lugar donde tocaste.
 - **Análisis de tus toques:** regularidad, si aceleras o te retrasas, el error a tiempo, a contratiempo y tras un silencio, y un consejo concreto.
 - **Para afianzar el pulso:** práctica en bucle que sube el tempo cuando llegas a la precisión elegida, y metrónomo que calla en algunos compases.
@@ -30,7 +31,7 @@ Abre `index.html` en el navegador. Necesita a su lado, en la misma carpeta, `sty
 
 ### 1. La pantalla principal
 
-La primera vez, una tarjeta explica cómo se practica y presenta las demás pestañas (*Campaña*, *Mis ejercicios* y *Mi progreso*):
+La primera vez, una tarjeta explica cómo se practica (incluida la forma de tocar: *Piano* o *Batería*) y presenta las demás pestañas (*Campaña*, *Mis ejercicios* y *Mi progreso*):
 
 ![Tarjeta de bienvenida de la primera vez](docs/capturas/bienvenida.png)
 
@@ -47,7 +48,7 @@ Después, la pantalla principal queda así:
 4. **Reproducir:** hace sonar el ritmo con el metrónomo para que lo oigas antes de practicarlo. *Nuevo ritmo* (o la tecla <kbd>N</kbd>) genera otro.
 5. **Partitura:** además de leerla, es donde tocas. Tocarla en reposo también empieza la práctica.
 6. **Practicar:** empieza la cuenta previa y la evaluación.
-7. **Batería / Piano:** en *Batería* solo cuenta cuándo tocas cada nota; en *Piano* también cuánto la mantienes pulsada.
+7. **Forma de tocar:** *Piano* (viene así) mide cuándo tocas cada nota y cuánto la mantienes pulsada; *Batería* solo cuándo la tocas, con sonido de redoblante.
 
 ### 2. Opciones del ritmo
 
@@ -75,7 +76,7 @@ El resumen encima de la partitura recuerda siempre qué está activo. Un ejemplo
 
 Las tres secciones se pliegan y despliegan pulsando su título (en el móvil empiezan plegadas); la app recuerda cómo las dejaste.
 
-1. **Reproducción:** *Reproducir* siempre hace sonar el ritmo; *Escuchar el ritmo al practicar* lo hace sonar también mientras practicas (viene apagada, para que lo leas tú). También: resaltar la nota actual, repetir en bucle, sonido de las notas (tono sostenido o golpe) y volumen.
+1. **Reproducción:** *Reproducir* siempre hace sonar el ritmo; *Escuchar el ritmo al practicar* lo hace sonar también mientras practicas (viene apagada, para que lo leas tú). También: resaltar la nota actual, repetir en bucle, sonido de las notas (tono sostenido o golpe de redoblante) y volumen.
 2. **Metrónomo:** tempo, marcar el tempo con toques, sonar durante el ritmo, acento en el primer tiempo, subdivisión, compases de cuenta previa y volumen.
    - *Subdivisión en la cuenta previa* (activada por defecto): en compases compuestos (3/8, 6/8, 9/8, 12/8) y de amalgama (5/8, 7/8, 8/8), la cuenta marca el pulso y, más suaves, las corcheas.
    - En amalgama, durante el ejercicio el metrónomo marca solo los pulsos (el inicio de cada grupo); elige *Corcheas* en *Subdivisión* para oír también las demás corcheas.
@@ -85,8 +86,8 @@ Las tres secciones se pliegan y despliegan pulsando su título (en el móvil emp
    - *Compases en silencio* (suena siempre, 1·1, 2·2, 3·1 o 1·3): el metrónomo calla en algunos compases para que mantengas tú el pulso; nunca en la cuenta previa. Mientras calla, las luces se ven huecas.
 3. **Práctica:**
    - *Penalizar golpes de más:* cada golpe donde no hay nota resta puntos; si lo desactivas, solo se cuentan.
-   - *Modo piano:* igual que el selector Batería / Piano.
-   - *Oír mis toques* (activado por defecto) y su volumen: en modo piano suena mientras mantienes.
+   - *Modo piano:* igual que el selector *Forma de tocar* (activado por defecto).
+   - *Oír mis toques* (activado por defecto) y su volumen: en modo piano suena un tono mientras mantienes; en batería, un golpe de redoblante.
    - *Botón flotante para tocar:* en móvil y tableta (ver más abajo).
    - *Vibrar al tocar:* solo en pantallas táctiles que lo admiten.
    - *Guardar cada práctica automáticamente* en *Mi progreso*.
